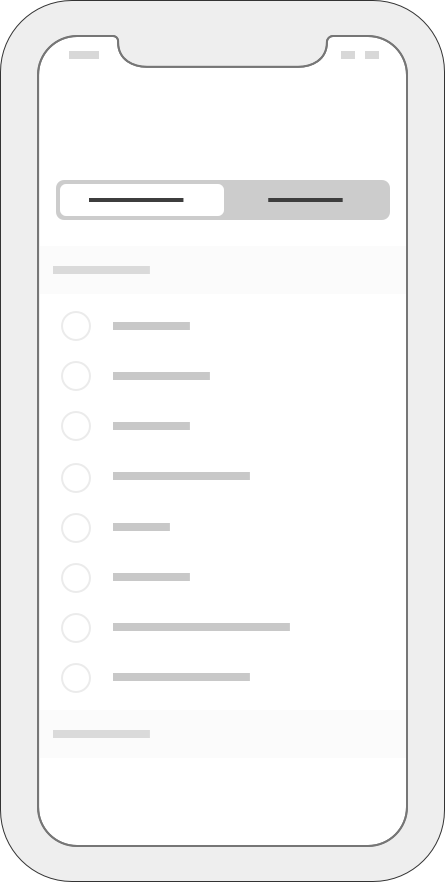
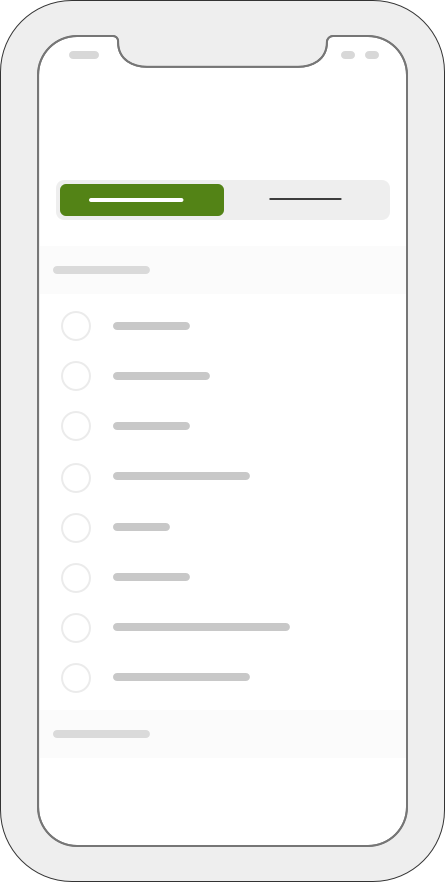
Update the Segmented-control-page for iOS (#30)

Changed region(s): [[0.1166, 0.1837, 0.8744, 0.2755]]

diff --git a/src/pages/ios/segmented-controls/index.js b/src/pages/ios/segmented-controls/index.js
@@ -21,6 +21,12 @@ import segmentedControls3PNGSource from './images/segmented-controls-3.png'
 import segmentedControls4PNGSource from './images/segmented-controls-4.png'
 import segmentedControls5PNGSource from './images/segmented-controls-5.png'
 import segmentedControlsExamplePNGSource from './images/segmented-controls-example.png'
+import paddingsPNGSource from './images/segmented-controls-paddings.png'
+import segmentedControls1OldPNGSource from './images/segmented-controls-1-old.png'
+import segmentedControls2OldPNGSource from './images/segmented-controls-2-old.png'
+import segmentedControls3OldPNGSource from './images/segmented-controls-3-old.png'
+import segmentedControls4OldPNGSource from './images/segmented-controls-4-old.png'
+import segmentedControls5OldPNGSource from './images/segmented-controls-5-old.png'
 
 import './_style.scss'
 
@@ -42,29 +48,66 @@ const IOSSegmentedControlsPage = () => {
         <Grid columnCount={minWidth1024 ? 2 : 1}>
           <GridItem>
             <Caption position="top">Segmented Control - Option 1 Selected</Caption>
-            <Figure maxWidth="359px" src={segmentedControls1PNGSource} noMargin fluid />
+            <Figure maxWidth="375px" src={segmentedControls1PNGSource} noMargin fluid />
           </GridItem>
           <GridItem>
             <Caption position="top">Segmented Control - Option 2 Selected</Caption>
-            <Figure maxWidth="359px" src={segmentedControls2PNGSource} noMargin fluid />
+            <Figure maxWidth="375px" src={segmentedControls2PNGSource} noMargin fluid />
           </GridItem>
           <GridItem>
             <Caption position="top">Segmented Control - 3 Options</Caption>
-            <Figure maxWidth="359px" src={segmentedControls3PNGSource} noMargin fluid />
+            <Figure maxWidth="375px" src={segmentedControls3PNGSource} noMargin fluid />
           </GridItem>
           <GridItem>
             <Caption position="top">Segmented Control - 4 Options</Caption>
-            <Figure maxWidth="359px" src={segmentedControls4PNGSource} noMargin fluid />
+            <Figure maxWidth="375px" src={segmentedControls4PNGSource} noMargin fluid />
           </GridItem>
           <GridItem>
             <Caption position="top">Segmented Control - 5 Options</Caption>
-            <Figure maxWidth="359px" src={segmentedControls5PNGSource} noMargin fluid />
+            <Figure maxWidth="375px" src={segmentedControls5PNGSource} noMargin fluid />
           </GridItem>
         </Grid>
 
         <Grid withBackground>
           <GridItem noMargin>
             <Figure maxWidth="223px" src={segmentedControlsExamplePNGSource} noMargin fluid />
+          </GridItem>
+        </Grid>
+
+        <Grid withBackground>
+          <GridItem noMargin>
+            <Figure maxWidth="519px" src={paddingsPNGSource} noMargin fluid />
+          </GridItem>
+        </Grid>
+      </Section>
+
+      <Section>
+        <Heading2>iOS 12 & Below</Heading2>
+        <Paragraph>
+          Segmented controls have a slightly different UI on older versions of
+          iOS. Please use these when building for iOS 10, 11 & 12.
+        </Paragraph>
+
+        <Grid columnCount={minWidth1024 ? 2 : 1}>
+          <GridItem>
+            <Caption position="top">Segmented Control - Option 1 Selected</Caption>
+            <Figure maxWidth="375px" src={segmentedControls1OldPNGSource} noMargin fluid />
+          </GridItem>
+          <GridItem>
+            <Caption position="top">Segmented Control - Option 2 Selected</Caption>
+            <Figure maxWidth="375px" src={segmentedControls2OldPNGSource} noMargin fluid />
+          </GridItem>
+          <GridItem>
+            <Caption position="top">Segmented Control - 3 Options</Caption>
+            <Figure maxWidth="375px" src={segmentedControls3OldPNGSource} noMargin fluid />
+          </GridItem>
+          <GridItem>
+            <Caption position="top">Segmented Control - 4 Options</Caption>
+            <Figure maxWidth="375px" src={segmentedControls4OldPNGSource} noMargin fluid />
+          </GridItem>
+          <GridItem>
+            <Caption position="top">Segmented Control - 5 Options</Caption>
+            <Figure maxWidth="375px" src={segmentedControls5OldPNGSource} noMargin fluid />
           </GridItem>
         </Grid>
       </Section>
